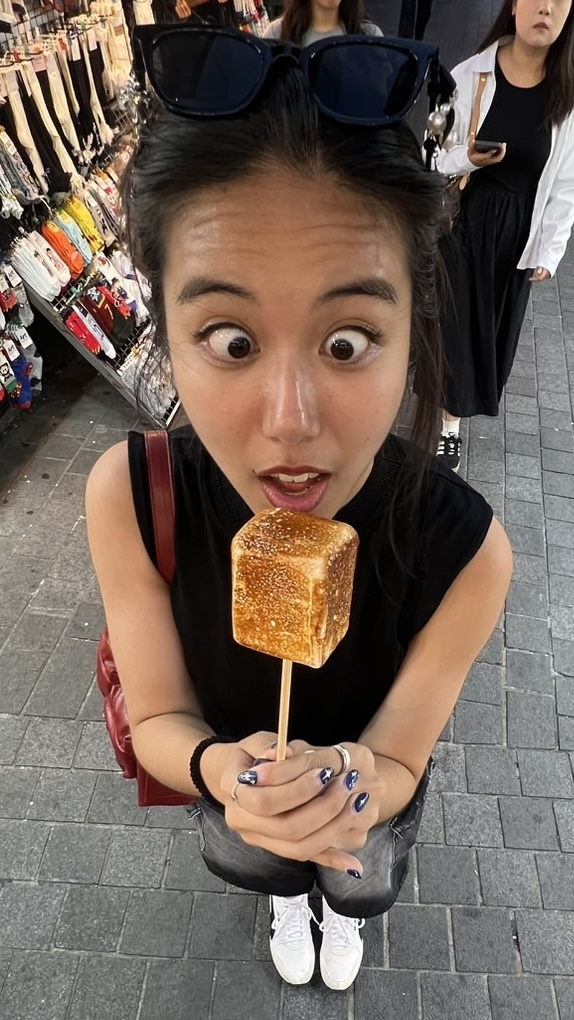
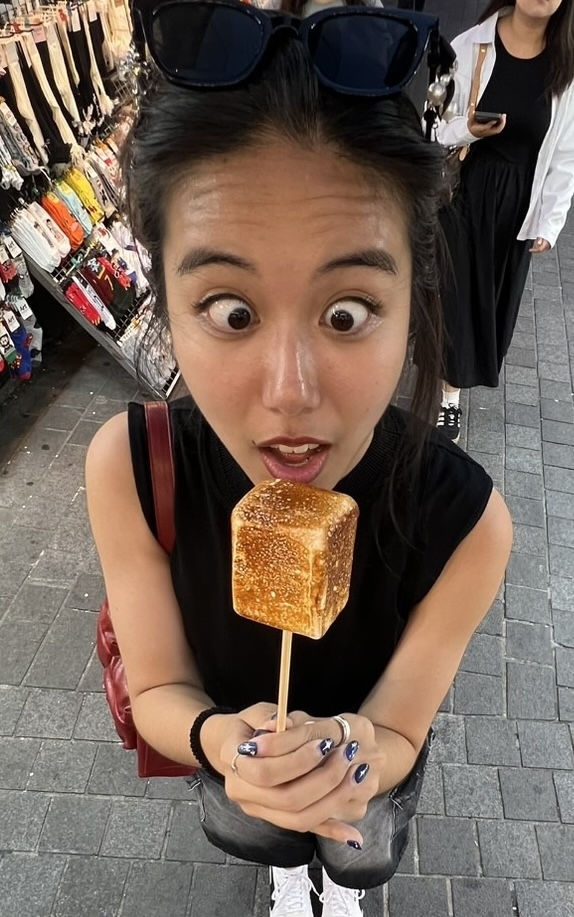
Resizing for about page

diff --git a/portfolioSite/src/components/Stack.tsx b/portfolioSite/src/components/Stack.tsx
@@ -41,7 +41,6 @@ interface CardRotateProps {
 interface StackProps {
     randomRotation?: boolean;
     sensitivity?: number;
-    cardDimensions?: { width: number; height: number };
     sendToBackOnClick?: boolean;
     cardsData?: { id: number; img: string }[];
     animationConfig?: { stiffness: number; damping: number };
@@ -51,7 +50,6 @@ interface StackProps {
   export default function Stack({
     randomRotation = false,
     sensitivity = 200,
-    cardDimensions = { width: 208, height: 208 },
     cardsData = [],
     animationConfig = { stiffness: 260, damping: 20 },
     sendToBackOnClick = false,
@@ -92,11 +90,6 @@ interface StackProps {
     return (
       <div
         className="stack-container"
-        style={{
-          width: cardDimensions.width,
-          height: cardDimensions.height,
-          perspective: 600
-        }}
       >
         {cards.map((card, index) => {
           const randomRotate = randomRotation ? Math.random() * 10 - 5 : 0;
@@ -120,10 +113,6 @@ interface StackProps {
                   type: 'spring',
                   stiffness: animationConfig.stiffness,
                   damping: animationConfig.damping
-                }}
-                style={{
-                  width: cardDimensions.width,
-                  height: cardDimensions.height
                 }}
               >
                 <img src={card.img} alt={`card-${card.id}`} className="card-image" />

diff --git a/portfolioSite/src/components/RandomAbout.css b/portfolioSite/src/components/RandomAbout.css
@@ -11,12 +11,17 @@
     background-image: linear-gradient(to bottom, rgba(190, 189, 186, 0.3), rgba(235, 232, 227, 0.3));
     box-shadow: 5px 5px 8px rgba(0, 0, 0, 0.5);
     text-align: center;
-    max-width: 375px;
+    width: 24vw;
     margin-bottom: 2%;
+    display: flex;
+    flex-direction: column;
+    justify-content: space-around;
+    align-items: center;
 }
 
 #generateAbout h3 {
     margin: 0;
+    font-size: 24px;
 }
 
 #generateAbout img {
@@ -24,11 +29,46 @@
 }
 
 #generateAbout h4 {
-    font-size: 20px;
+    font-size: 22px;
     margin: 0;
 }
 
 #generateAbout p {
     font-size: 20px;
     margin: 0;
+}
+
+/* Widths smaller than laptop */
+@media (max-width: 1024px) {
+    #generateAbout h3 {
+        font-size: 20px;
+    }
+    #generateAbout img {
+        height: 75px;
+    }
+    #generateAbout div {
+        width: 24vw;
+    }
+    #generateAbout h4 {
+        font-size: 18px;
+    }
+    #generateAbout p {
+        font-size: 16px;
+    }
+}
+
+/* Widths smaller than tablet */
+@media (max-width: 768px) {
+    #generateAbout h3 {
+        font-size: 16px;
+    }
+    #generateAbout img {
+        height: 50px;
+    }
+    #generateAbout h4 {
+        font-size: 14px;
+    }
+    #generateAbout p {
+        font-size: 12px;
+    }
 }

diff --git a/portfolioSite/src/pages/About.css b/portfolioSite/src/pages/About.css
@@ -173,3 +173,61 @@
       transform: rotate(360deg); /* Ending state: full 360-degree rotation */
     }
   }
+  
+  /* Widths smaller than laptop */
+  @media (max-width: 1024px) {
+    hr {
+        margin: 10px 0;
+      }
+    .cd {
+        height: 75px;
+    }
+    .hobby img {
+        height: 75px;
+    }
+    .indieStamp {
+        width: 83px;
+        height: 44px;
+    }
+    .indieButton {
+        width: 124px;
+        height: 44px;
+    }
+    #badgeStack img {
+        height: 22px;
+        width: 118px;
+    }
+    .indieBlinkie {
+        height: 23px;
+        width: 175px;
+    }
+  }
+  
+  /* Widths smaller than tablet */
+  @media (max-width: 768px) {
+    hr {
+        margin: 10px 0;
+      }
+    .cd {
+        height: 50px;
+    }
+    .hobby img {
+        height: 50px;
+    }
+    .indieStamp {
+        width: 62px;
+        height: 33px;
+    }
+    .indieButton {
+        width: 93px;
+        height: 33px;
+    }
+    #badgeStack img {
+        height: 16px;
+        width: 89px;
+    }
+    .indieBlinkie {
+        height: 16px;
+        width: 131px;
+    }
+  }

diff --git a/portfolioSite/src/pages/About.tsx b/portfolioSite/src/pages/About.tsx
@@ -27,7 +27,6 @@ export default function About() {
                 randomRotation={true}
                 sensitivity={180}
                 sendToBackOnClick={false}
-                cardDimensions={{ width: 450, height: 700 }}
                 cardsData={images}
                 onTopCardChange={setTopCardId}
                 />
@@ -80,7 +79,7 @@ export default function About() {
                             <p>Travel</p>
                         </div>
                         <div className="hobby">
-                            <img src="/aboutPics/art.jpg"></img>
+                            <img src="/aboutPics/art.png"></img>
                             <p>Art</p>
                         </div>
                     </div>

diff --git a/portfolioSite/src/components/Stack.css b/portfolioSite/src/components/Stack.css
@@ -6,6 +6,7 @@
   .card-rotate {
     position: absolute;
     cursor: grab;
+    width: 450px;
   }
   
   .card {
@@ -19,5 +20,19 @@
     width: 100%;
     height: 100%;
     object-fit: cover;
+    display: block;
   }
   
+   /* Widths smaller than laptop */
+   @media (max-width: 1024px) {
+    .card-rotate {
+      width: 325px;
+    }
+  }
+  
+  /* Widths smaller than tablet */
+  @media (max-width: 768px) {
+    .card-rotate {
+      width: 250px;
+    }
+  }

diff --git a/portfolioSite/src/pages/Home.css b/portfolioSite/src/pages/Home.css
@@ -241,6 +241,17 @@ span {
   }
 }
 
+/* Widths smaller than 4K */
+@media (max-width: 2560px) {
+  #mission img {
+    height: 30vh;
+  }
+
+  #socials img {
+    height: 5vh;
+  }
+}
+
 /* Widths smaller than L laptop */
 @media (max-width: 1440px) {
   .job p {
